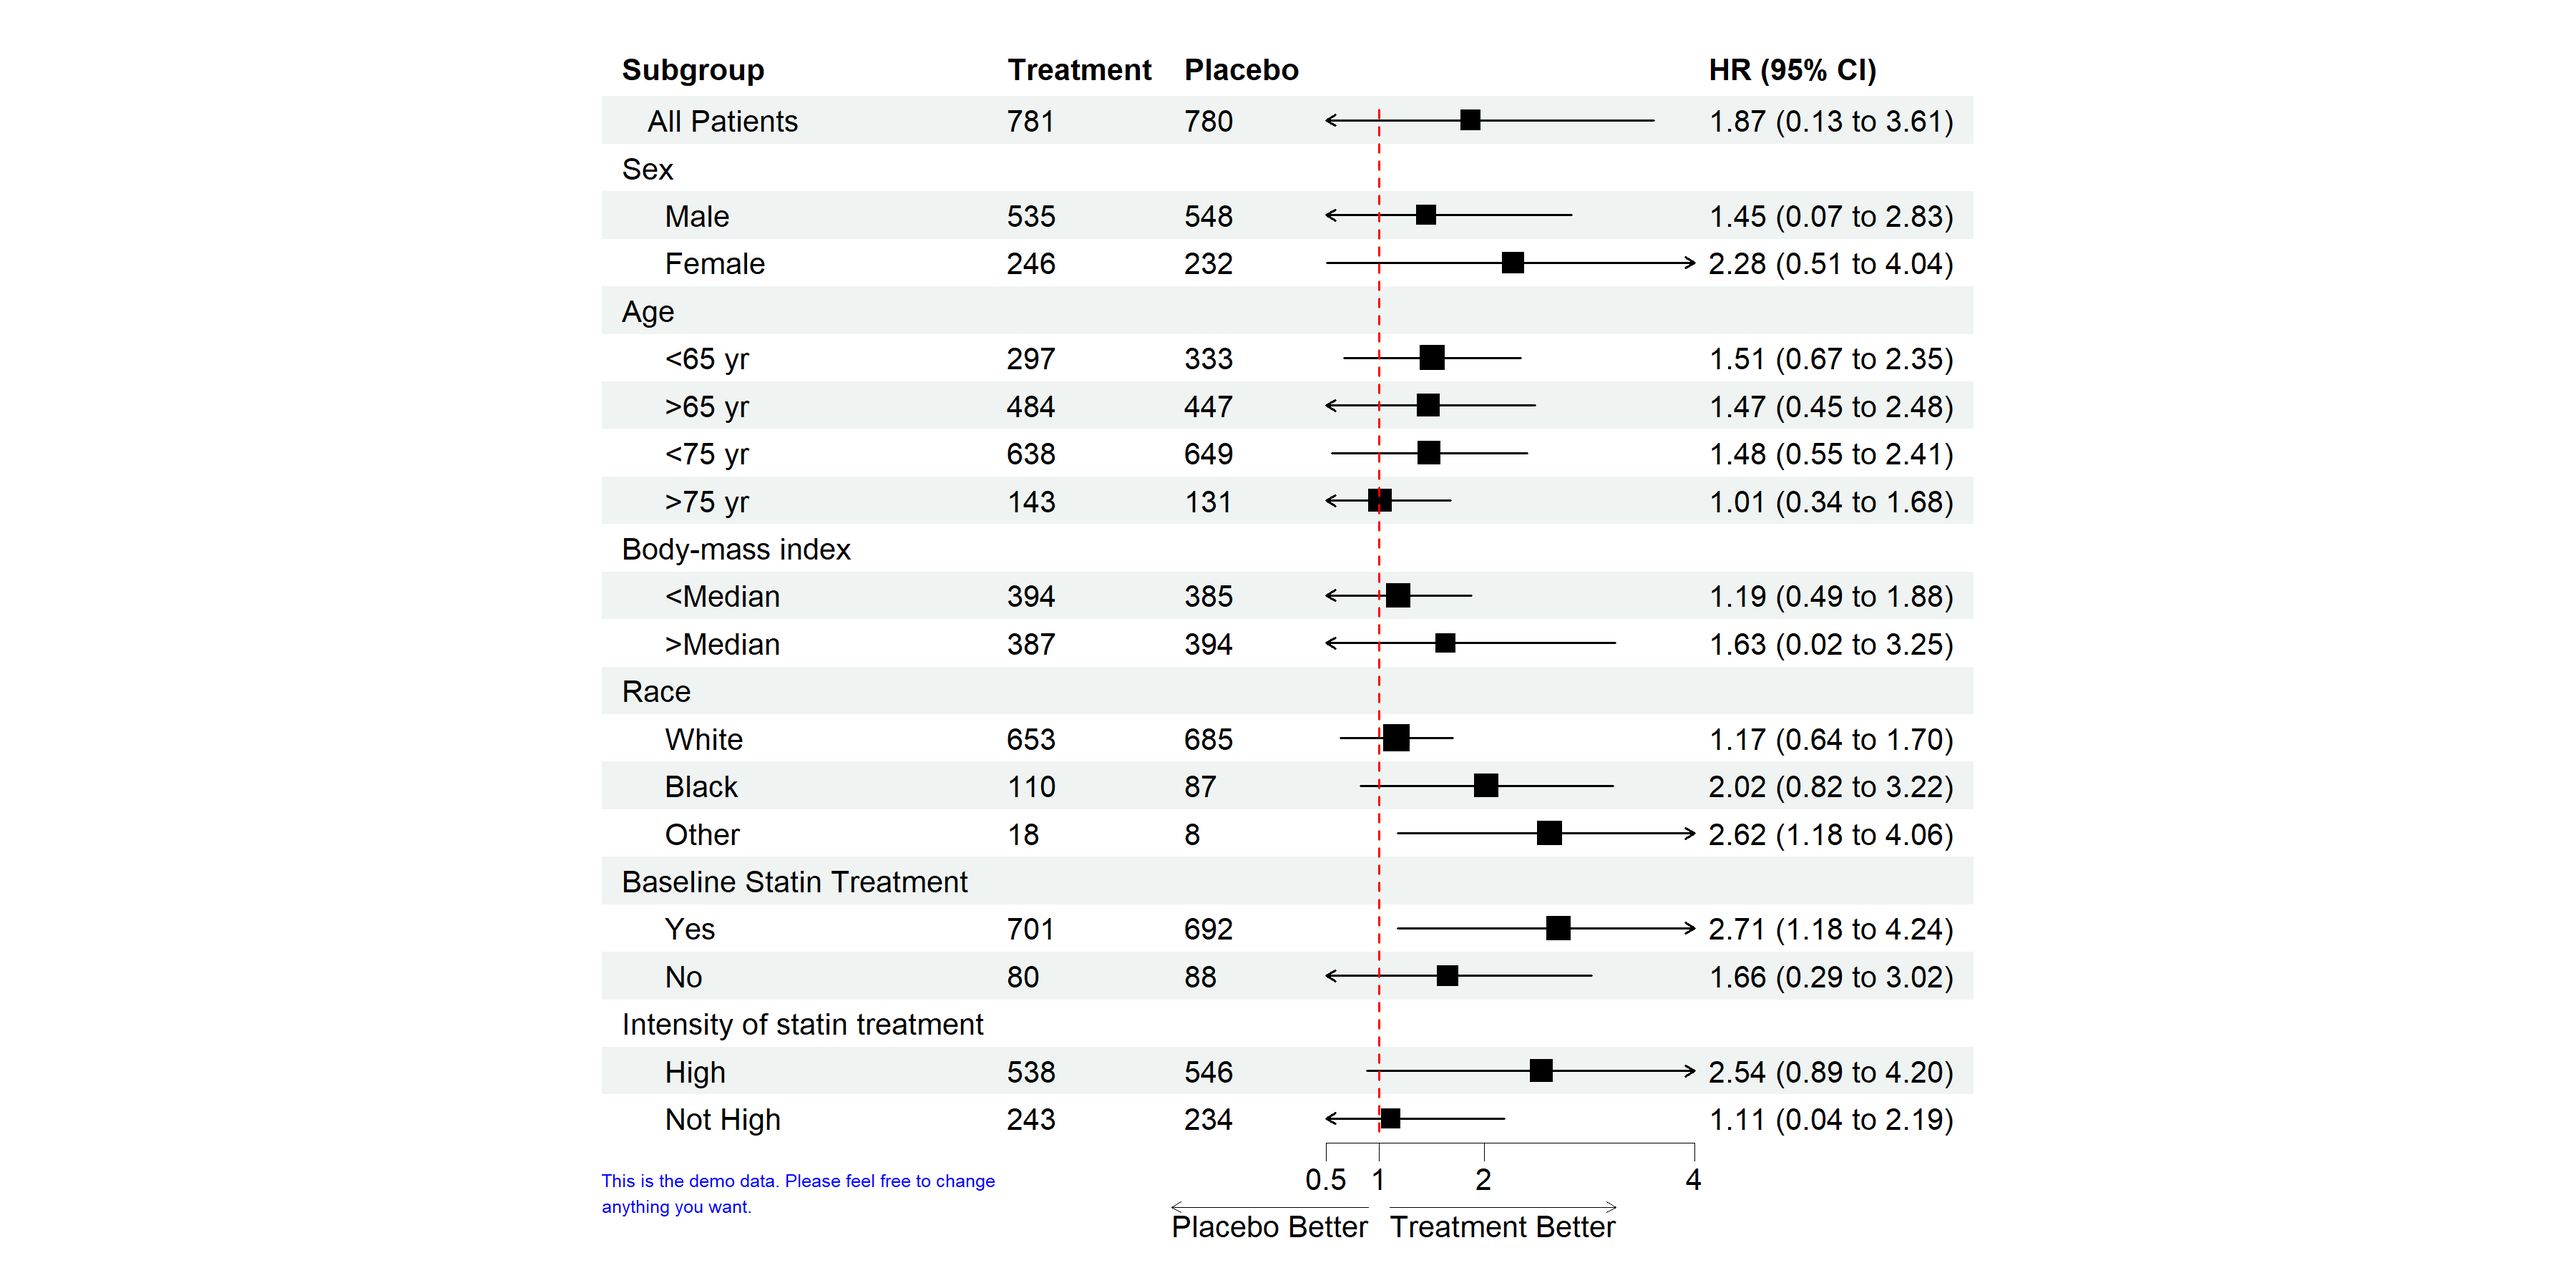
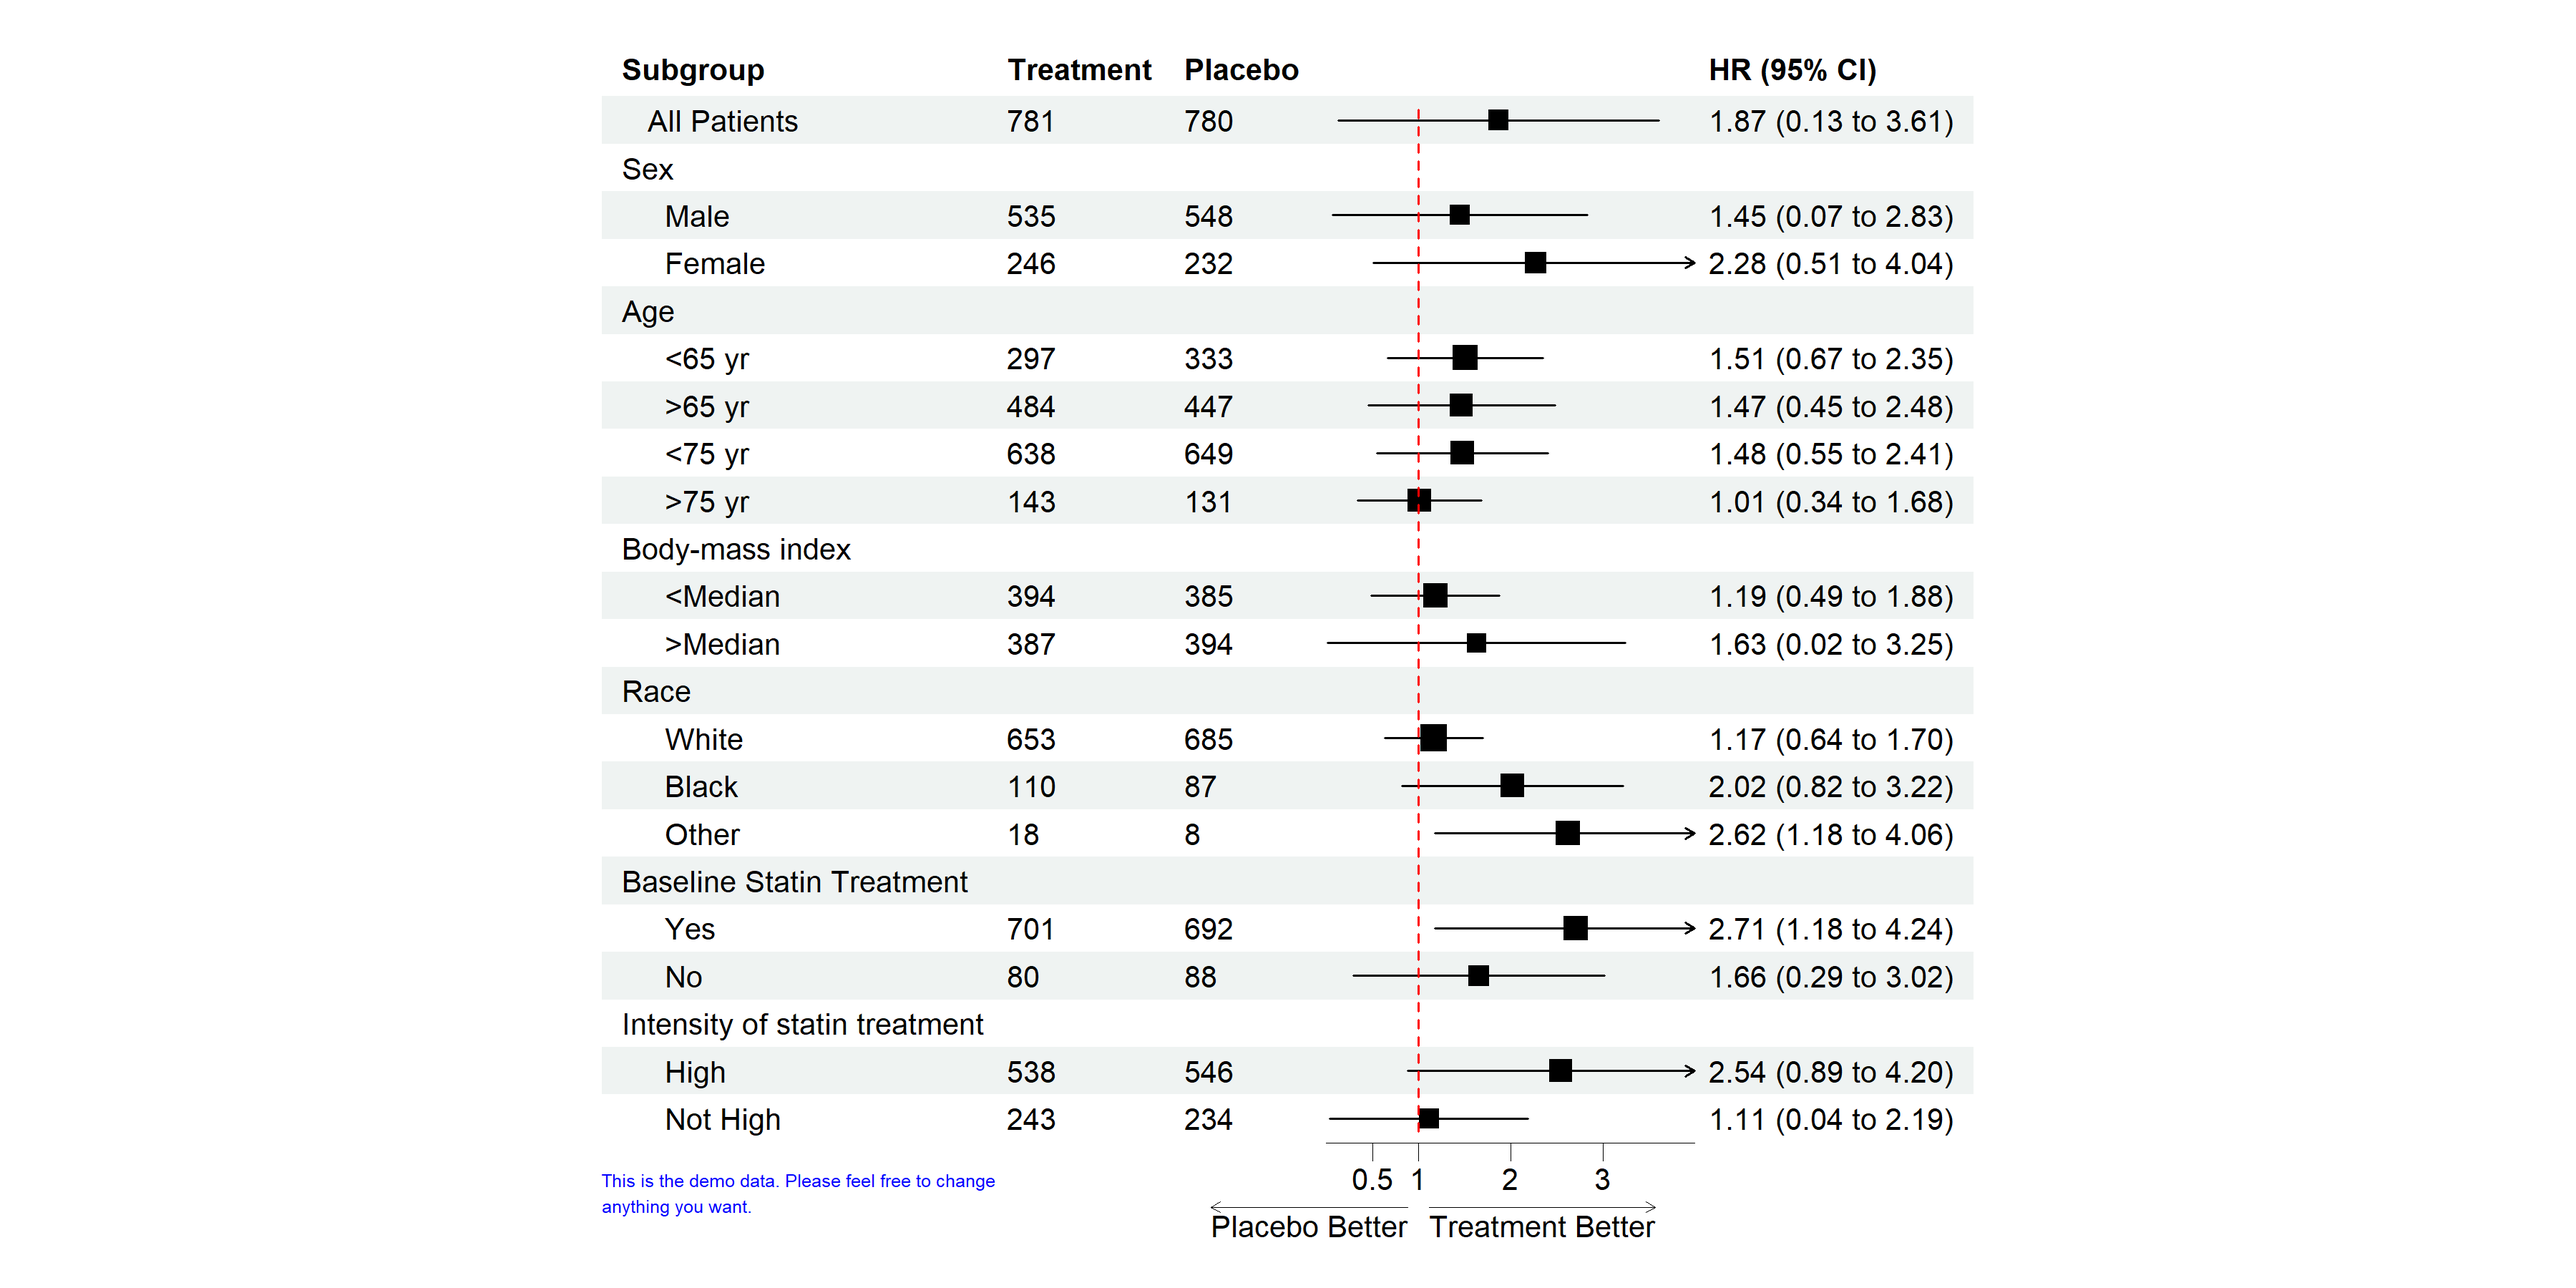
Update document

diff --git a/README.md b/README.md
@@ -8,8 +8,8 @@
 
 The goal of forestploter is to create a publication-ready forest plot
 with little effort. This package provide some extra displays compared to
-other packages. The colnames of the provided data will be used as the
-header.
+other packages. The dataset will be used as a basic layout for the
+forest plot.
 
 ## Installation
 
@@ -61,10 +61,11 @@ p <- forest(dt[,c(1:3, 20:21)],
             lower = dt$low, 
             upper = dt$hi,
             sizes = dt$se,
-            ci.column = 4,
-            ref.line = 1,
-            arrow.lab = c("Placebo Better", "Treatment Better"),
-            tick.breaks = c(0.5, 1, 2, 4),
+            ci_column = 4,
+            ref_line = 1,
+            arrow_lab = c("Placebo Better", "Treatment Better"),
+            xlim = c(0, 4),
+            xaxis = set_xaxis(c(0.5, 1, 2, 3)),
             footnote = "This is the demo data. Please feel free to change\nanything you want.",
             theme = tm)
 
@@ -163,9 +164,9 @@ p <- forest(dt[,c(1:2, 20, 3, 22)],
                          dt$hi_gp2,
                          dt$hi_gp3,
                          dt$hi_gp4),
-            ci.column = c(3, 5),
-            ref.line = 1,
-            arrow.lab = c("Placebo Better", "Treatment Better"),
+            ci_column = c(3, 5),
+            ref_line = 1,
+            arrow_lab = c("Placebo Better", "Treatment Better"),
             nudge_y = 0.2,
             theme = tm)
 
@@ -181,3 +182,4 @@ plot(p)
 -   [ ] More documentation
 -   [ ] Different point estimation symbols allow for different
     estimation type.
+-   [ ] Need some testing.
